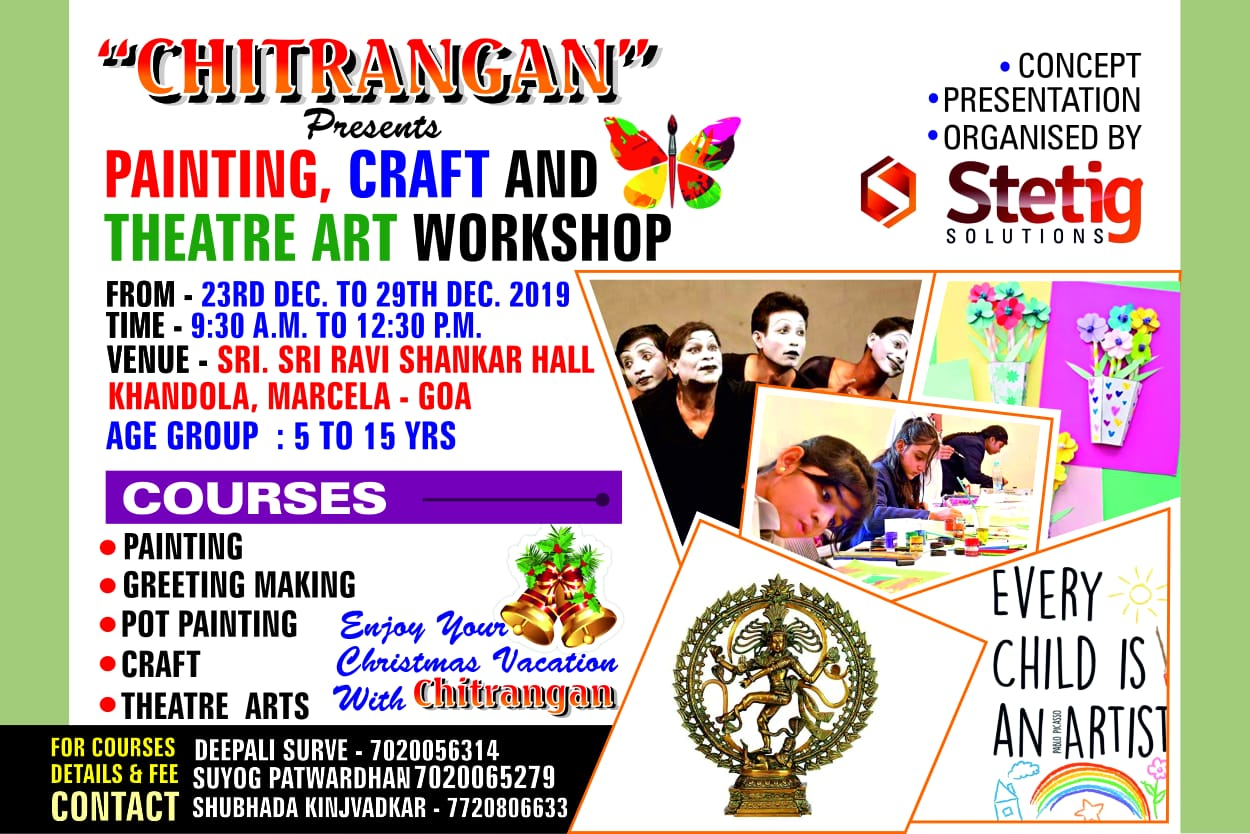
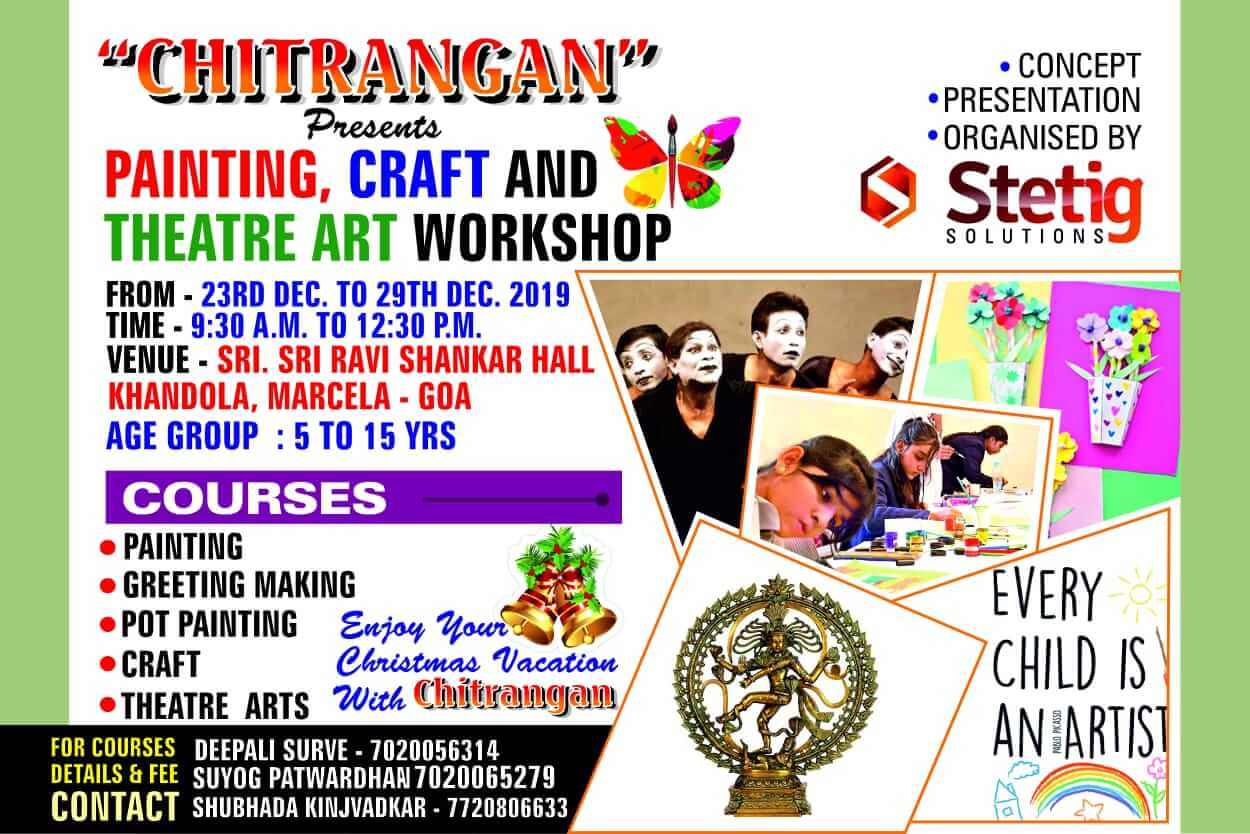
compressed images and added target blank

diff --git a/index.html b/index.html
@@ -237,7 +237,7 @@
         <div class="inner">
             <ul class="menu">
                 <li>&copy; ShubhYog Concepts. All rights reserved.</li>
-                <li>Design: <a href="http://html5up.net">HTML5 UP</a> By <a href="http://melroyfernandes.dev">Melroy Fernandes</a></li>
+                <li>Design: <a target="_blank" ref="http://html5up.net">HTML5 UP</a> By <a target="_blank" href="http://melroyfernandes.dev">Melroy Fernandes</a></li>
             </ul>
         </div>
     </footer>
